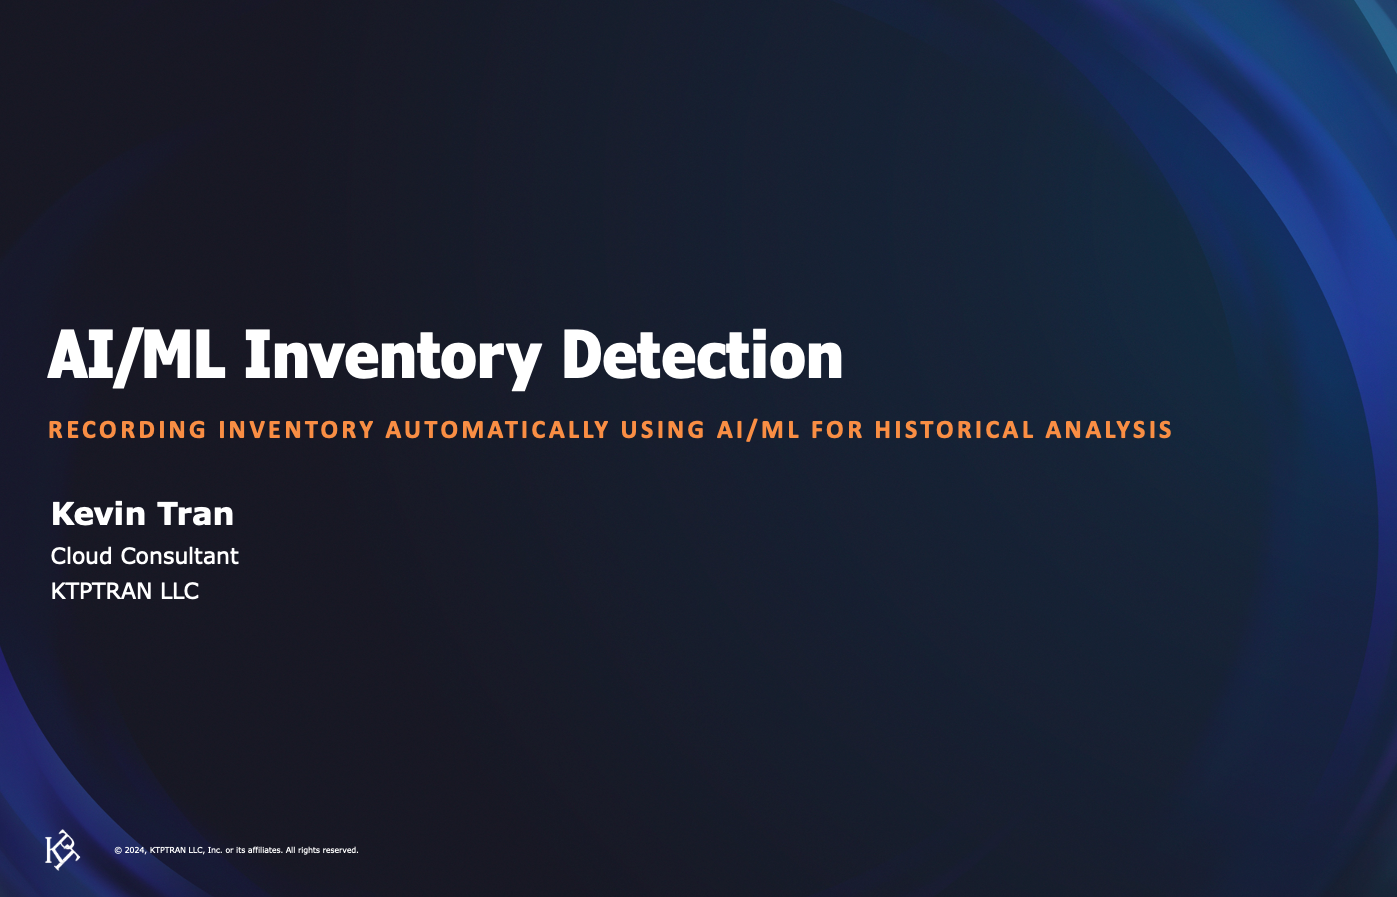
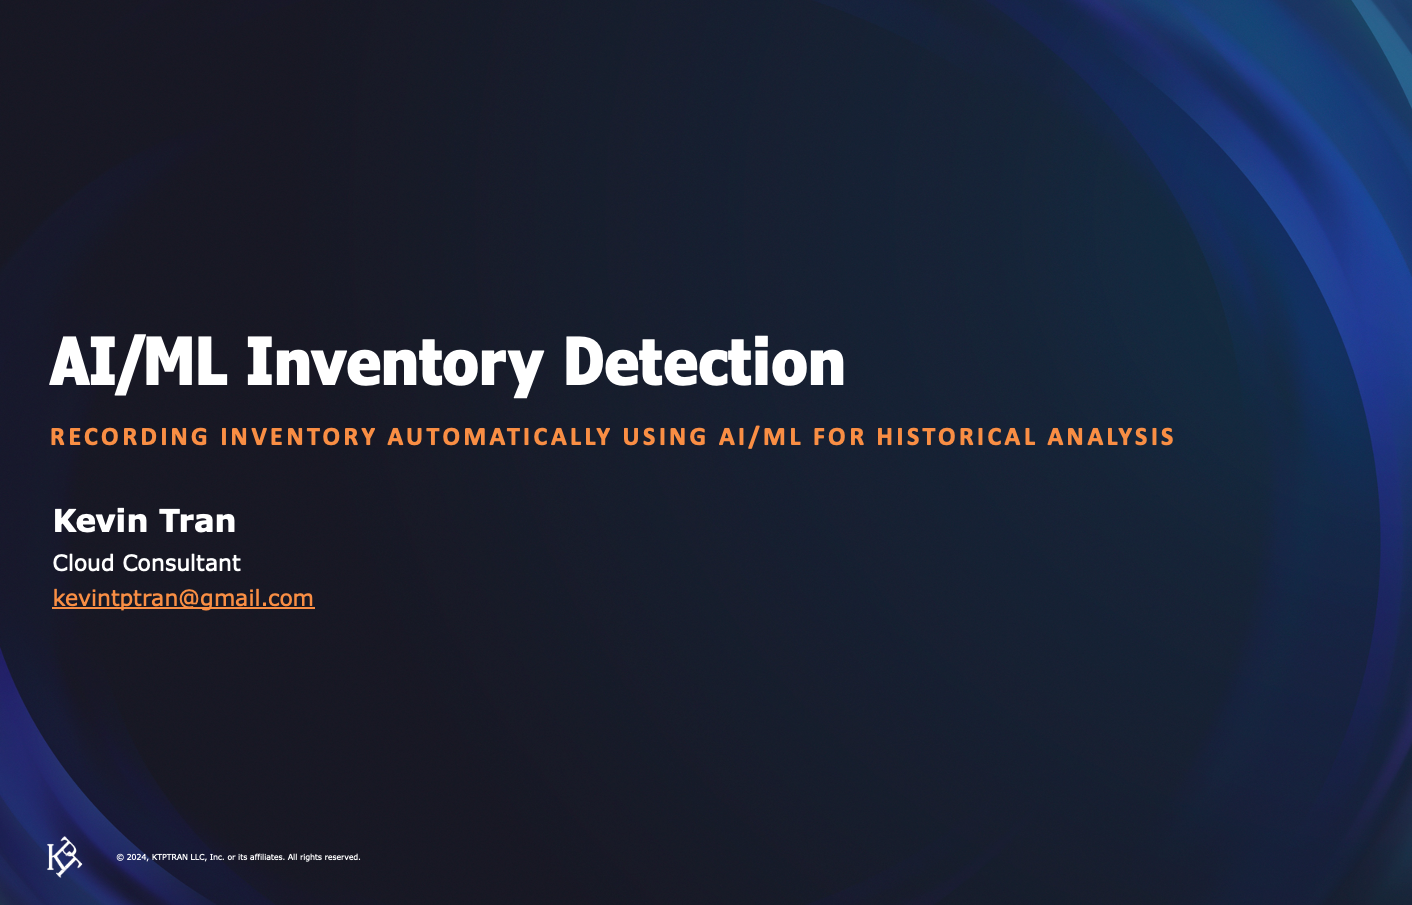
refact: updated asset screenshot

diff --git a/frontend/src/app/data/data.tsx b/frontend/src/app/data/data.tsx
@@ -121,9 +121,10 @@ const projectsData = [
 	{
 		id: 3,
 		title: "ReactJS Web Platform",
-		description: "Platform to centralize communication and marketing",
+		description: "Platform to centralize communication and marketing.",
 		image: "/images/projects/youth-group.png",
 		tag: ["All", "ReactJS", "AWS"],
+		gitUrl: "https://github.com/jp-nguyen/dctt-website",
 		previewUrl: "https://www.chuathanhthan.org/",
 	},
 ];
